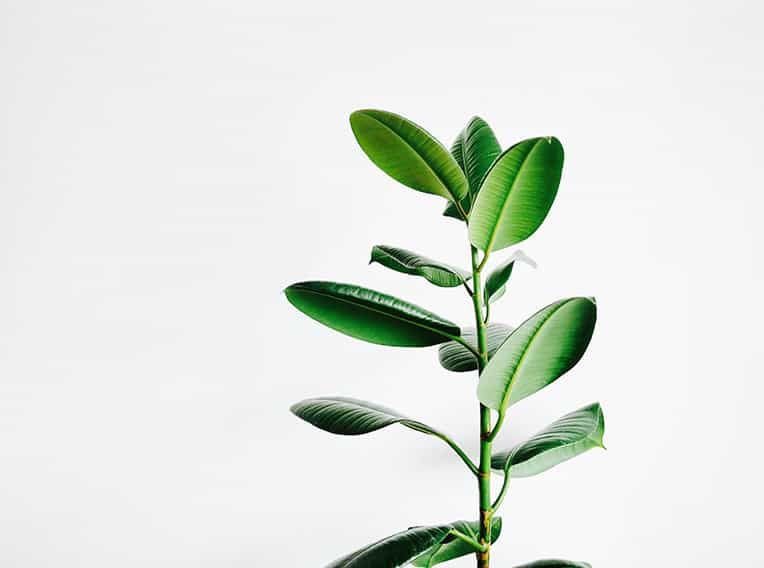
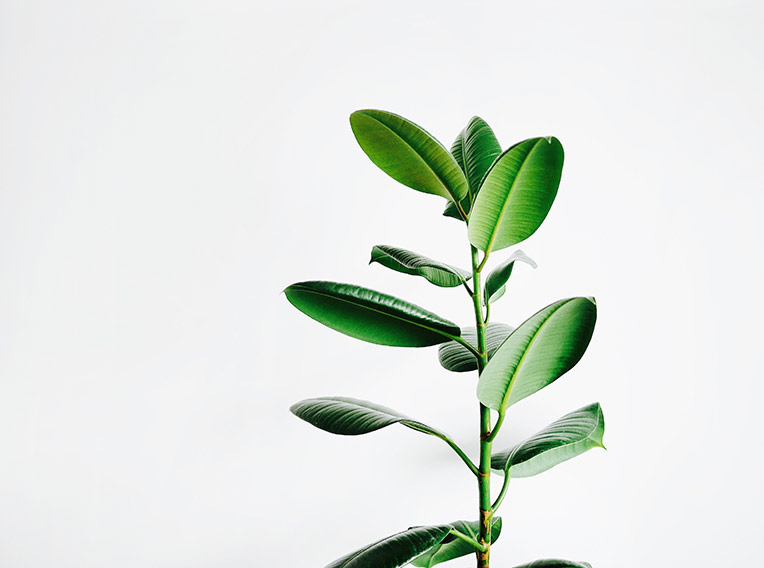
Minified images

diff --git a/webpack.prod.config.js b/webpack.prod.config.js
@@ -91,8 +91,9 @@ module.exports = {
       threshold: 200*1024
     }),
     new ImageminPlugin({
+      minFileSize: 2024 * 100,
       pngquant: {quality: '50-50'},
-      plugins: [imageminMozjpeg({quality: 50})]
+      plugins: [imageminMozjpeg({quality: 30})]
     })
   ],
   optimization: {
